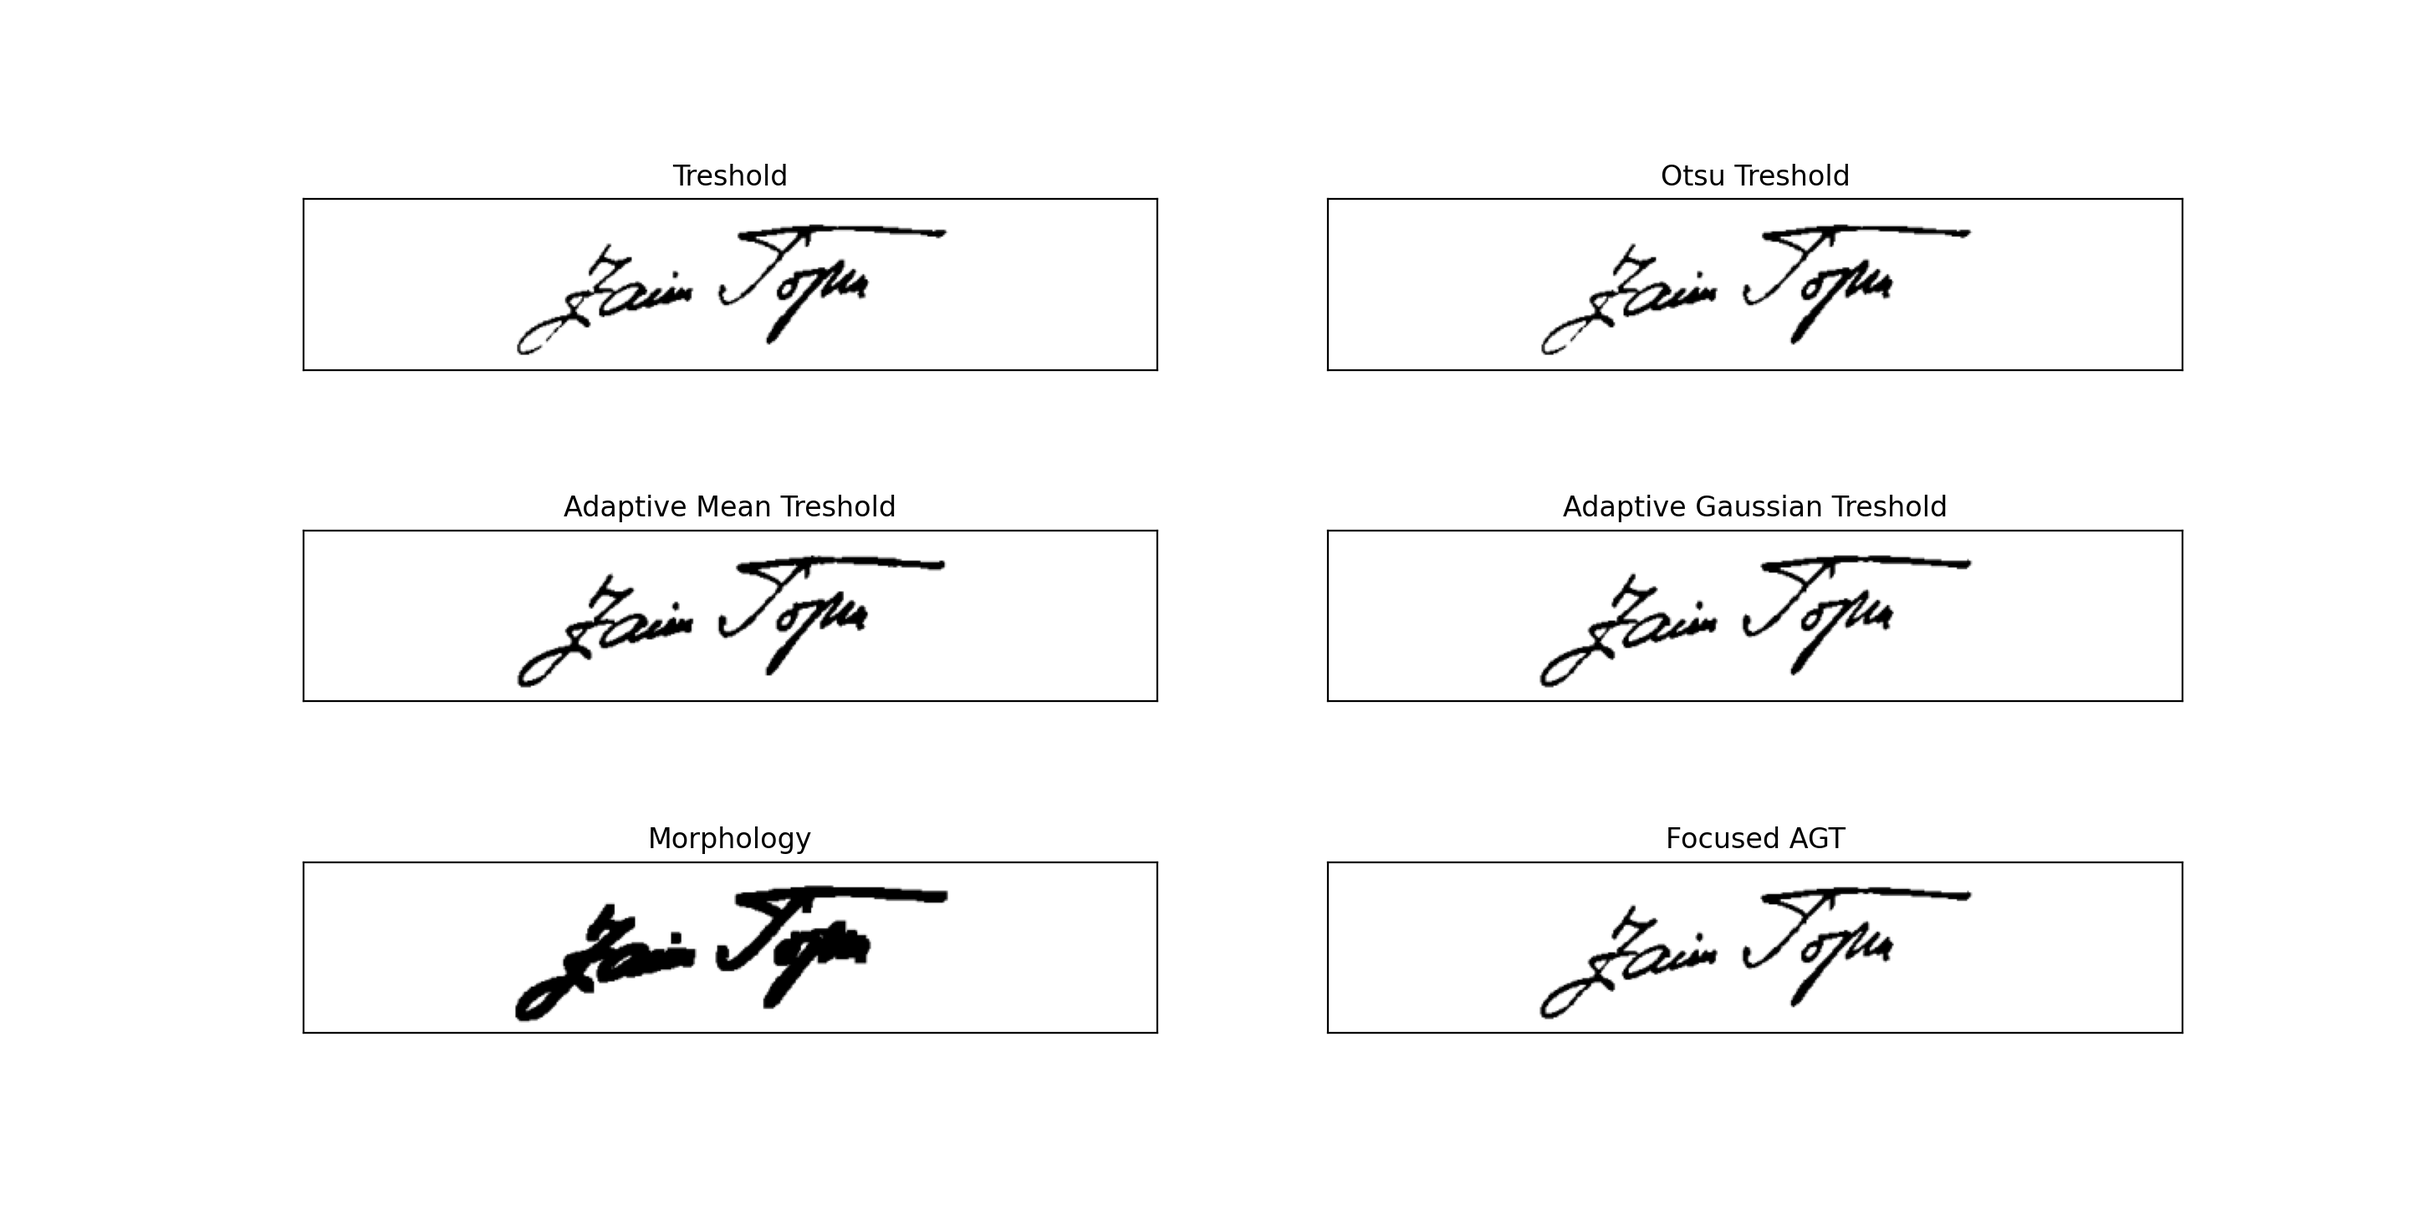
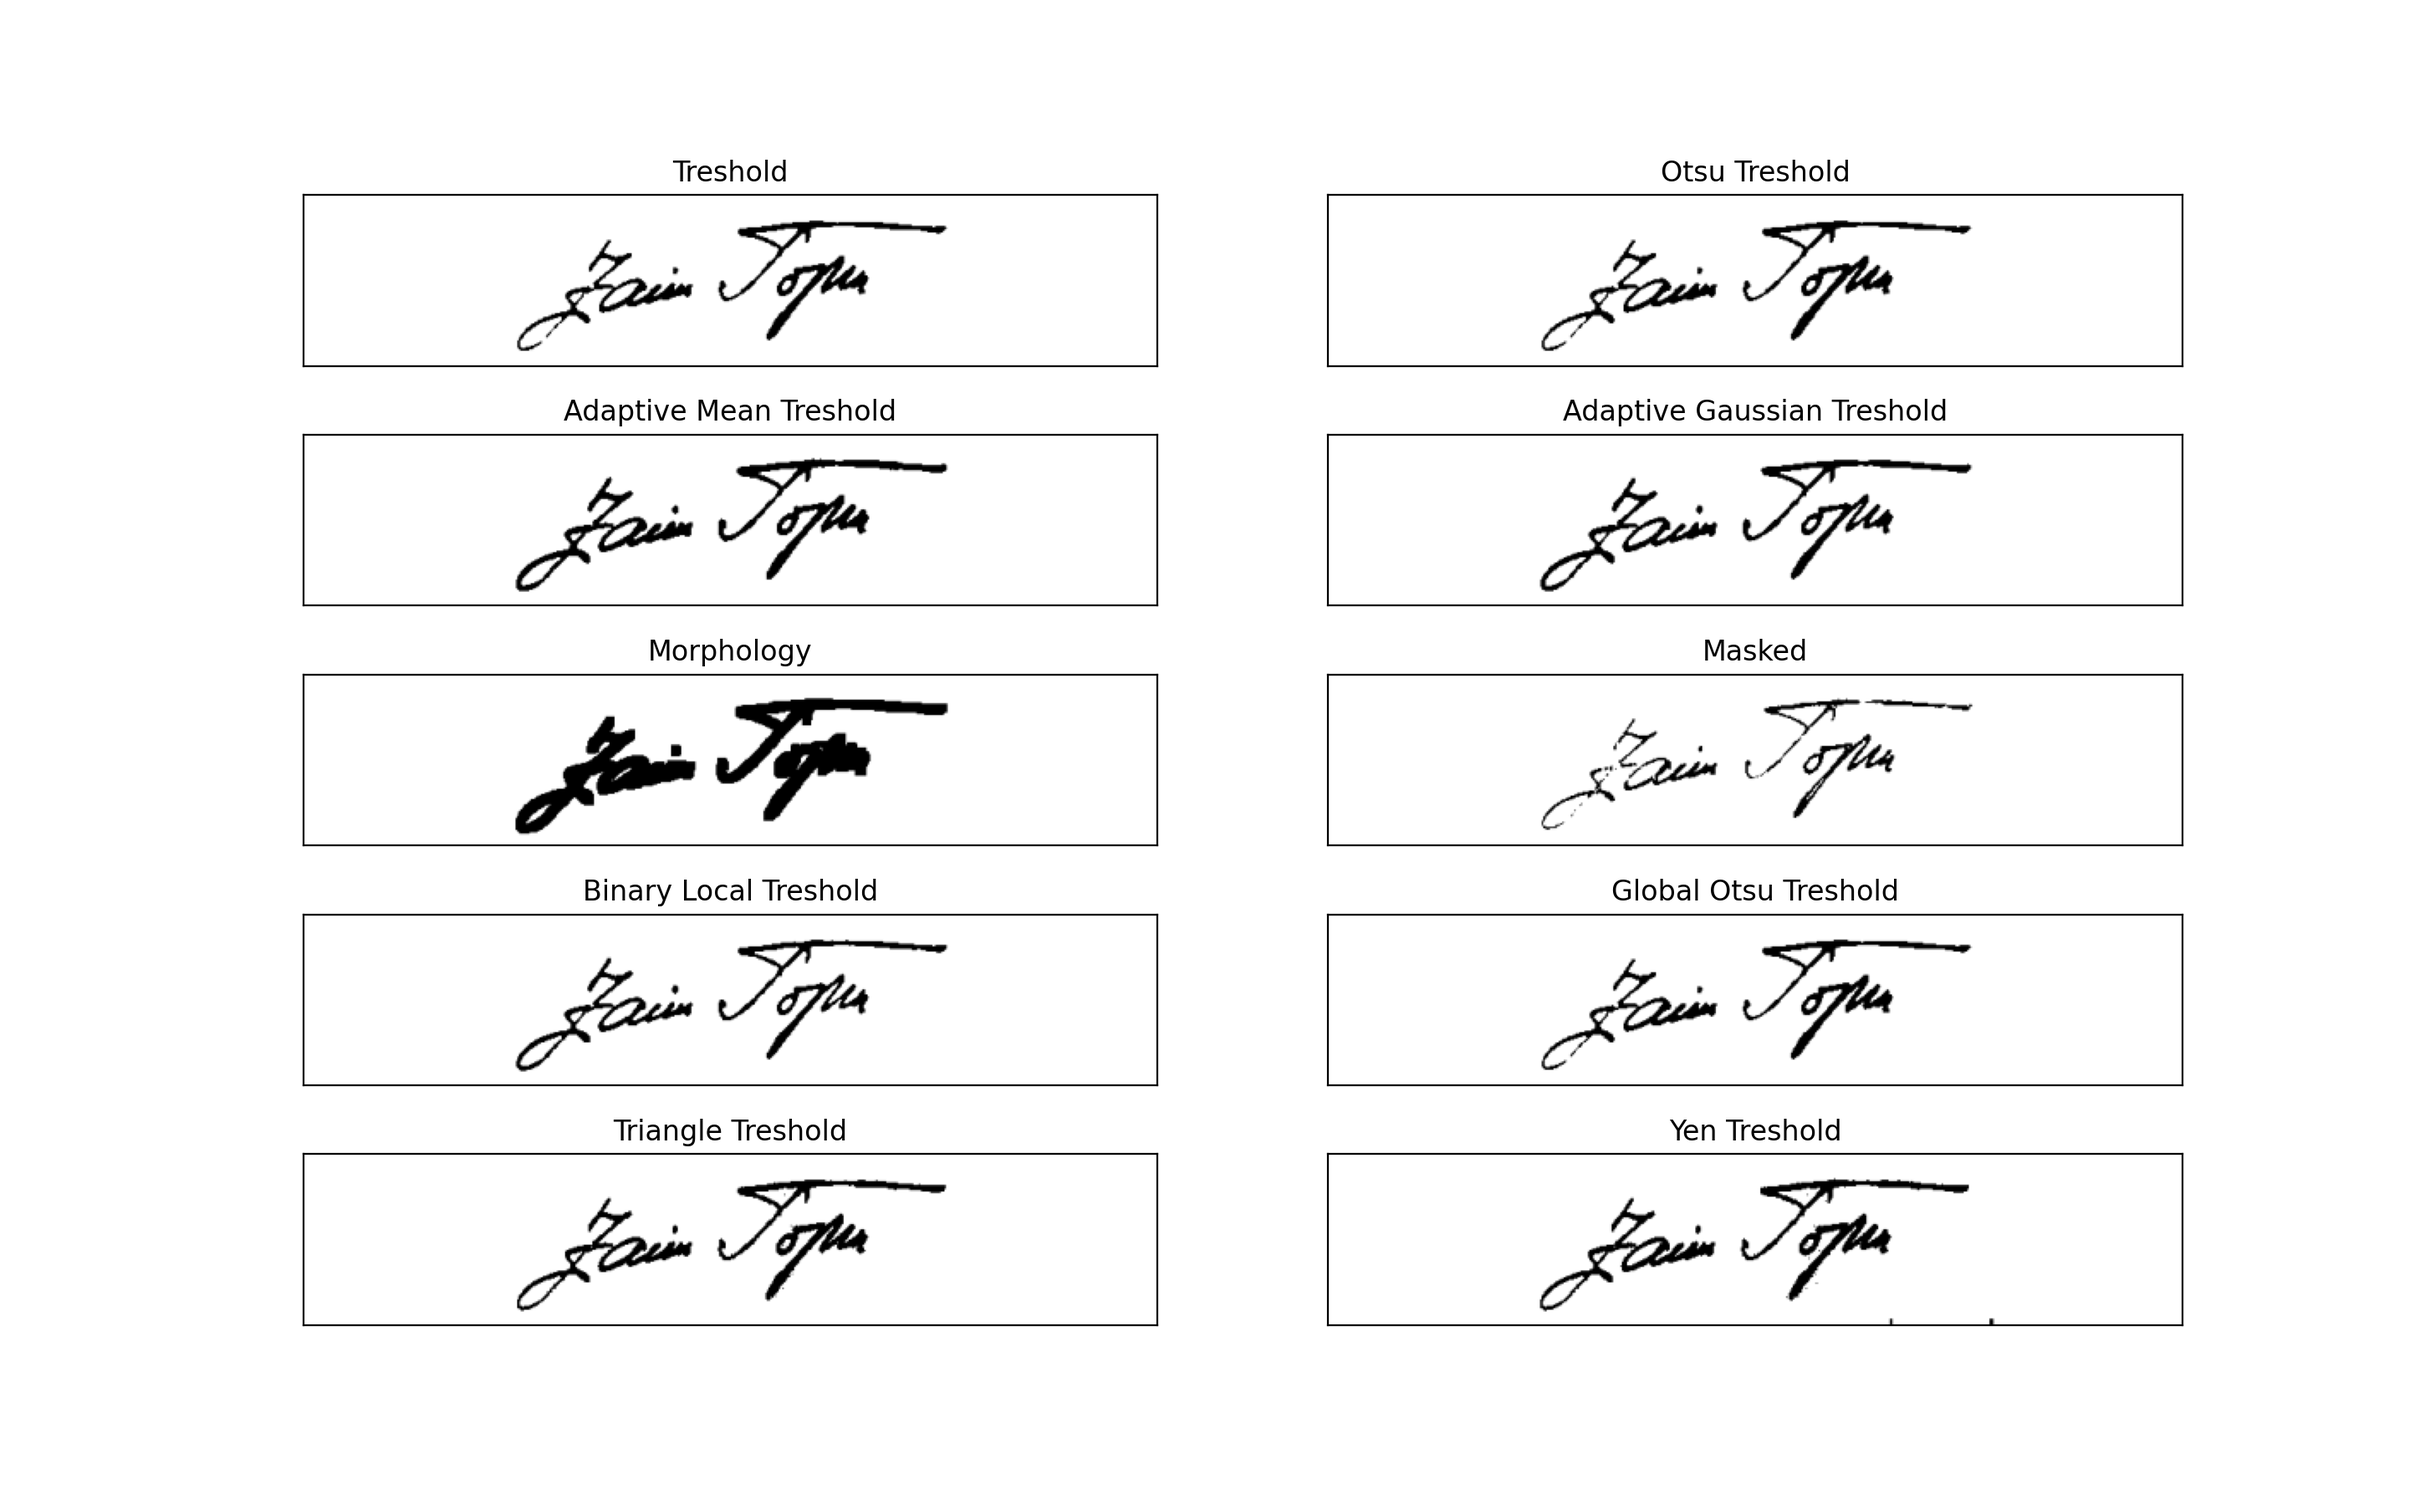
added new features, new test images, basic signature validation

diff --git a/signature_extractor.py b/signature_extractor.py
@@ -1,3 +1,5 @@
+from skimage.filters import threshold_triangle, threshold_yen, threshold_otsu, threshold_local
+from skimage.util import img_as_ubyte
 import numpy as np
 import cv2
 
@@ -70,6 +72,43 @@ class SignatureExtractor:
 
         return resized
 
+    def find_content_with_canny(self, img):
+        canny = cv2.Canny(img, 0, 255)
+        t, b, l, r = self.find_roi(cv2.bitwise_not(canny))
+        content = img[t:b, l:r]
+        return content
+
+    def validate(self, sig):
+        """
+        Signature passes validation if:
+            - percentage of darker pixels is in between 0.5% and 10%
+            - TODO: check if signature is well rotated
+            - TODO: check if the pixels are scattered to much for a good signature
+
+        :param sig: processed image
+        :return: ok - False if validaton fails, otherwise True. err_code - error code. error_msg - error message
+        """
+
+        msg_dict = {0: "Ok",
+                    1: "Signature contains under the limmit amount of dark pixels",
+                    2: "Signature contains over the limmit amount of dark pixels"}
+        ok = True
+        error_code = 0
+
+        top_limit = sig.shape[0] * sig.shape[1] * 0.1
+        bottom_limit = sig.shape[0] * sig.shape[1] * 0.005
+
+        #unique, counts = np.unique(sig, return_counts=True)
+        #n_dark = dict(zip(unique, counts)).get(0, 0)
+        n_dark = len(np.where(sig < 20)[0])
+
+        if n_dark < bottom_limit:
+            ok, error_code = False, 1
+        elif n_dark > top_limit:
+            ok, error_code = False, 2
+
+        return ok, error_code, msg_dict[error_code]
+
     @staticmethod
     def resize_and_keep_ratio(img, size):
         #print("resize_and_keep_ratio:", img.shape, size)
@@ -80,6 +119,9 @@ class SignatureExtractor:
 
         if h / w < ratio:
             padding = int((h * ratio - w) / 2)
+
+            if padding < 0:
+                padding = 0
 
             pad = np.repeat(255., padding*h).reshape((h, padding))
 
@@ -103,6 +145,7 @@ class TresholdSignatureExtractor(SignatureExtractor):
         #th, im_th = cv2.threshold(img, 127, 255, cv2.THRESH_BINARY_INV)
         #return cv2.bitwise_not(im_th)
 
+        img = self.find_content_with_canny(img)
         img = self.add_blur(img)
 
         th, im_th = cv2.threshold(img, 127, 255, cv2.THRESH_BINARY)
@@ -114,6 +157,7 @@ class OtsuTresholdSignatureExtractor(SignatureExtractor):
     def _extract(self, img):
         img = cv2.cvtColor(img, cv2.COLOR_BGR2GRAY)
 
+        img = self.find_content_with_canny(img)
         img = self.add_blur(img)
 
         th, im_th = cv2.threshold(img, 127, 255, cv2.THRESH_BINARY + cv2.THRESH_OTSU)
@@ -127,6 +171,7 @@ class AdaptiveMeanTresholdSignatureExtractor(SignatureExtractor):
 
         img = cv2.cvtColor(img, cv2.COLOR_BGR2GRAY)
 
+        img = self.find_content_with_canny(img)
         img = self.add_blur(img)
         out_img = cv2.adaptiveThreshold(img, 255, cv2.ADAPTIVE_THRESH_MEAN_C, cv2.THRESH_BINARY, 55, 10)
 
@@ -151,6 +196,7 @@ class AdaptiveGaussianTresholdSignatureExtractor(SignatureExtractor):
 
         img = cv2.cvtColor(img, cv2.COLOR_BGR2GRAY)
 
+        img = self.find_content_with_canny(img)
         img = self.add_blur(img)
 
         out_img = cv2.adaptiveThreshold(img, 255, cv2.ADAPTIVE_THRESH_GAUSSIAN_C, cv2.THRESH_BINARY, 55, 10)
@@ -208,20 +254,90 @@ class MaskedSignatureExtractor(SignatureExtractor):
 
         return out_img
 
-
+"""
 class FocusedSignatureExtractor(SignatureExtractor):
 
     def _extract(self, img):
 
         img = cv2.cvtColor(img, cv2.COLOR_BGR2GRAY)
 
-        canny = cv2.Canny(img, 0, 255)
-
-        t, b, l, r = self.find_roi(cv2.bitwise_not(canny))
-        content = img[t:b, l:r]
+        #canny = cv2.Canny(img, 0, 255)
+        #t, b, l, r = self.find_roi(cv2.bitwise_not(canny))
+        #content = img[t:b, l:r]
+        content = self.find_content_with_canny(img)
 
         content = self.add_blur(content)
         out_img = cv2.adaptiveThreshold(content, 255, cv2.ADAPTIVE_THRESH_GAUSSIAN_C, cv2.THRESH_BINARY, 55, 10)
 
         return out_img
+"""
 
+class GlobalOtsuTresholdSignatureExtractor(SignatureExtractor):
+
+    def _extract(self, img):
+
+        img = cv2.cvtColor(img, cv2.COLOR_BGR2GRAY)
+
+        content = self.find_content_with_canny(img)
+        content = self.add_blur(content)
+
+        img = img_as_ubyte(content)
+        threshold_global_otsu = threshold_otsu(img)
+        global_otsu = img >= threshold_global_otsu
+
+        out_img = np.zeros(global_otsu.shape).astype(np.uint8)
+        out_img[global_otsu] = 255
+
+        return out_img
+
+
+class TriangleTresholdSignatureExtractor(SignatureExtractor):
+
+    def _extract(self, img):
+
+        img = cv2.cvtColor(img, cv2.COLOR_BGR2GRAY)
+
+        content = self.find_content_with_canny(img)
+        content = self.add_blur(content)
+
+        treshold = img > threshold_triangle(content)
+
+        out_img = np.zeros(treshold.shape).astype(np.uint8)
+        out_img[treshold] = 255
+
+        return out_img
+
+
+class YenTresholdSignatureExtractor(SignatureExtractor):
+
+    def _extract(self, img):
+
+        img = cv2.cvtColor(img, cv2.COLOR_BGR2GRAY)
+
+        content = self.find_content_with_canny(img)
+        content = self.add_blur(content)
+
+        treshold = img > threshold_yen(content)
+
+        out_img = np.zeros(treshold.shape).astype(np.uint8)
+        out_img[treshold] = 255
+
+        return out_img
+
+
+class BinaryLocalTresholdSignatureExtractor(SignatureExtractor):
+
+    def _extract(self, img):
+
+        img = cv2.cvtColor(img, cv2.COLOR_BGR2GRAY)
+
+        content = self.find_content_with_canny(img)
+        content = self.add_blur(content)
+
+        local_thresh = threshold_local(content, block_size=35, offset=10)
+        binary_local = content > local_thresh
+
+        out_img = np.zeros(binary_local.shape).astype(np.uint8)
+        out_img[binary_local] = 255
+
+        return out_img

diff --git a/test.py b/test.py
@@ -2,7 +2,9 @@ import matplotlib.pyplot as plt
 import cv2
 from signature_extractor import TresholdSignatureExtractor, OtsuTresholdSignatureExtractor,\
                                 AdaptiveMeanTresholdSignatureExtractor, AdaptiveGaussianTresholdSignatureExtractor,\
-                                MorphologySignatureExtractor, FocusedSignatureExtractor
+                                MorphologySignatureExtractor, MaskedSignatureExtractor, \
+                                GlobalOtsuTresholdSignatureExtractor, TriangleTresholdSignatureExtractor, \
+                                YenTresholdSignatureExtractor, BinaryLocalTresholdSignatureExtractor
 
 
 tex = TresholdSignatureExtractor()
@@ -10,12 +12,24 @@ otse = OtsuTresholdSignatureExtractor()
 amtex = AdaptiveMeanTresholdSignatureExtractor()
 agtse = AdaptiveGaussianTresholdSignatureExtractor()
 mse = MorphologySignatureExtractor()
-fse = FocusedSignatureExtractor()
+bltse = BinaryLocalTresholdSignatureExtractor()
+gotse = GlobalOtsuTresholdSignatureExtractor()
+ttse = TriangleTresholdSignatureExtractor()
+ytse = YenTresholdSignatureExtractor()
+maskse = MaskedSignatureExtractor()
 
 
 def run_for_dataset(dataset_index=0):
 
-    datasets = [[15, "jpeg"], [5, "jpg"], [4, "png"]]
+    def plot_sig(_se, _ax, _sig, _title):
+        _ax.imshow(_sig, cmap="gray")
+        _ax.title.set_text(_title)
+        ok, code, msg = _se.validate(_sig)
+        if not ok:
+            plt.setp(_ax.spines.values(), color="red")
+            _ax.text(0, 10, msg, color="red")
+
+    datasets = [[15, "jpeg"], [25, "jpg"], [4, "png"]]
 
     size, ext = datasets[dataset_index]
 
@@ -23,36 +37,36 @@ def run_for_dataset(dataset_index=0):
 
         img = cv2.imread("./images/original/eg{0}.{1}".format(i, ext))
 
+        assert img is not None, "Image cannot be none!"
+
         sig1 = tex.extract_and_resize(img=img)
         sig2 = otse.extract_and_resize(img=img)
         sig3 = amtex.extract_and_resize(img=img)
         sig4 = agtse.extract_and_resize(img=img)
         sig5 = mse.extract_and_resize(img=img)
-        sig6 = fse.extract_and_resize(img=img)
+        sig6 = maskse.extract_and_resize(img=img)
+        sig7 = bltse.extract_and_resize(img=img)
+        sig8 = gotse.extract_and_resize(img=img)
+        sig9 = ttse.extract_and_resize(img=img)
+        sig10 = ytse.extract_and_resize(img=img)
 
         cv2.imwrite("./images/out/eg_{0}_{1}_0.png".format(dataset_index, i), img)
 
-        fig, ((ax0, ax1), (ax2, ax3), (ax4, ax5)) = plt.subplots(3, 2)
+        fig, ((ax0, ax1), (ax2, ax3), (ax4, ax5), (ax6, ax7), (ax8, ax9)) = plt.subplots(5, 2)
 
-        ax0.imshow(sig1, cmap="gray")
-        ax0.title.set_text('Treshold')
+        plot_sig(tex, ax0, sig1, "Treshold")
+        plot_sig(otse, ax1, sig2, "Otsu Treshold")
+        plot_sig(amtex, ax2, sig3, "Adaptive Mean Treshold")
+        plot_sig(agtse, ax3, sig4, "Adaptive Gaussian Treshold")
+        plot_sig(mse, ax4, sig5, "Morphology")
+        plot_sig(maskse, ax5, sig6, "Masked")
+        plot_sig(bltse, ax6, sig7, "Binary Local Treshold")
+        plot_sig(gotse, ax7, sig8, "Global Otsu Treshold")
+        plot_sig(ttse, ax8, sig9, "Triangle Treshold")
+        plot_sig(ytse, ax9, sig10, "Yen Treshold")
 
-        ax1.imshow(sig2, cmap="gray")
-        ax1.title.set_text('Otsu Treshold')
-
-        ax2.imshow(sig3, cmap="gray")
-        ax2.title.set_text('Adaptive Mean Treshold')
-
-        ax3.imshow(sig4, cmap="gray")
-        ax3.title.set_text('Adaptive Gaussian Treshold')
-
-        ax4.imshow(sig5, cmap="gray")
-        ax4.title.set_text('Morphology')
-
-        ax5.imshow(sig6, cmap="gray")
-        ax5.title.set_text('Focused AGT')
-
-        fig.set_size_inches((14.5, 7.3))
+        #fig.set_size_inches((14.5, 7.3))
+        fig.set_size_inches((14.5, 9))
 
         for ax in fig.axes:
             ax.set_yticks(())
@@ -66,5 +80,3 @@ if __name__ == "__main__":
     run_for_dataset(0)
     run_for_dataset(1)
     run_for_dataset(2)
-
-

diff --git a/file_handler.py b/file_handler.py
@@ -3,7 +3,7 @@ import cv2
 import numpy as np
 
 from exception import SignatureException
-from signature_extractor import FocusedSignatureExtractor
+from signature_extractor import AdaptiveGaussianTresholdSignatureExtractor
 
 JPEG_QUALITY = 80
 ENCODING_BASE64 = 'base64'
@@ -38,10 +38,12 @@ def get_from_bytes(img_bytes, encoding=ENCODING_BASE64):
 def extract_signature(img, encoding=ENCODING_BASE64):
     cv2.imwrite('./images/test0.jpg', img)
 
-    se = FocusedSignatureExtractor()
+    se = AdaptiveGaussianTresholdSignatureExtractor()
     img = se.extract_and_resize(img)
 
-    cv2.imwrite('./images/test1.jpg', img)
+    # TODO: call signature validation se.validate(img)
+
+    # cv2.imwrite('./images/test1.jpg', img)
     return convert_img(img, encoding)
 
 

diff --git a/README.md b/README.md
@@ -15,16 +15,20 @@
 
 ## There are a couple of methods for extracting signature (check `test.py` for more info)
 
-This service uses `FocusedSignatureExtractor` as it performs the best
+This service uses `AdaptiveGaussianTresholdSignatureExtractor` as it performs the best
 
 ```python
 import cv2
-from signature_extractor import FocusedSignatureExtractor
+from signature_extractor import AdaptiveGaussianTresholdSignatureExtractor
 
 img = cv2.imread("./images/original/eg0.jpeg")
 
 se = FocusedSignatureExtractor()
 sig = tex.extract_and_resize(img=img)
+
+ok, code, msg = se.validate(sig)
+if not ok:
+    print(msg)
 
 cv2.imshow("extracted_signature", sig)
 cv2.waitKey(1)
